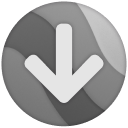
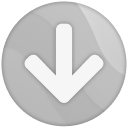
refactor: improve error handling and logging
- Remove excessive console logging\n- Improve error handling with context-aware logging\n- Update disabled icons\n- Simplify URL parsing logic\n- Add silent error handling for expected cases\n- Improve error messages for better user experience\n- Clean up service worker initialization

diff --git a/src/background.js b/src/background.js
@@ -13,17 +13,12 @@ const audiusApi = new AudiusApiService();
 
 // Wait for service worker initialization
 self.addEventListener('install', function (event) {
-    console.log('Service Worker installing...');
     event.waitUntil(self.skipWaiting());
 });
 
 self.addEventListener('activate', function (event) {
-    console.log('Service Worker activating...');
     event.waitUntil(self.clients.claim());
 });
-
-// Add a message to indicate the service worker is ready
-console.log('Service Worker initialized and ready');
 
 // Expose necessary objects to global scope
 self.JSZip = JSZip;
@@ -81,8 +76,7 @@ function extractArtistHandle(url) {
         }
 
         return null;
-    } catch (error) {
-        console.error('URL parsing error:', error);
+    } catch {
         return null;
     }
 }
@@ -91,64 +85,27 @@ function extractContentId(url) {
     try {
         const urlObj = new URL(url);
         const pathParts = urlObj.pathname.split('/').filter(Boolean);
-        console.log('Extracting content ID from path parts:', pathParts);
 
         // Validate URL structure
         if (pathParts.length < 2 || pathParts.length > 3) {
-            console.log('Invalid URL structure - expected 2 or 3 path parts');
-            return null;
-        }
-
-        // Validate artist handle (first part)
-        const artistHandle = pathParts[0];
-        if (!artistHandle || artistHandle.length < 1) {
-            console.log('Invalid artist handle');
             return null;
         }
 
         // Handle track URLs (artist/track-name)
         if (pathParts.length === 2) {
-            const trackName = pathParts[1];
-            if (!trackName || trackName.length < 1) {
-                console.log('Invalid track name');
-                return null;
-            }
-
-            // For tracks, we need to use the full permalink as the ID
-            // since the API requires the artist/track-name format
-            console.log('Found track URL pattern, returning permalink:', `${artistHandle}/${trackName}`);
-            return `${artistHandle}/${trackName}`;
+            return `${pathParts[0]}/${pathParts[1]}`;
         }
 
         // Handle album/playlist URLs (artist/album/album-id or artist/playlist/playlist-id)
         if (pathParts.length === 3) {
             const [artist, type, slug] = pathParts;
-
-            // Validate content type
-            if (type !== 'album' && type !== 'playlist') {
-                console.log('Invalid content type:', type);
-                return null;
+            if (type === 'album' || type === 'playlist') {
+                return `${artist}/${type}/${slug}`;
             }
-
-            // Validate slug
-            if (!slug || slug.length < 1) {
-                console.log('Invalid slug');
-                return null;
-            }
-
-            console.log('Found album/playlist URL pattern:', { artist, type, slug });
-
-            // For albums/playlists, we need to use the full permalink format
-            // This matches how the API expects to receive playlist/album IDs
-            const permalink = `${artist}/${type}/${slug}`;
-            console.log('Using full permalink as ID:', permalink);
-            return permalink;
         }
 
-        console.log('No matching URL pattern found');
         return null;
-    } catch (error) {
-        console.error('Error extracting content ID:', error);
+    } catch {
         return null;
     }
 }
@@ -174,8 +131,7 @@ function getContentType(url) {
         }
 
         return null;
-    } catch (error) {
-        console.error('Error determining content type:', error);
+    } catch {
         return null;
     }
 }
@@ -211,15 +167,6 @@ const SW_VERSION = '1.0.2'; // Increment this to force update
 async function updateIconState(tabId, url) {
     try {
         const isAudiusUrl = url?.includes('audius.co');
-        console.log(`Updating icon state for tab ${tabId}:`, {
-            url,
-            isAudiusUrl,
-            iconPaths: {
-                "16": isAudiusUrl ? "/icons/icon16.png" : "/icons/disabled/icon16.png",
-                "48": isAudiusUrl ? "/icons/icon48.png" : "/icons/disabled/icon48.png",
-                "128": isAudiusUrl ? "/icons/icon128.png" : "/icons/disabled/icon128.png"
-            }
-        });
 
         // Update icon with absolute paths
         await chrome.action.setIcon({
@@ -242,13 +189,14 @@ async function updateIconState(tabId, url) {
             tabId: tabId,
             popup: isAudiusUrl ? "popup.html" : ""
         });
-
-        console.log(`Successfully updated icon state for tab ${tabId}: ${isAudiusUrl ? 'enabled' : 'disabled'}`);
     } catch (error) {
-        console.error('Error updating icon state:', error);
+        // Log once with context
+        console.error('Icon state error:', {
+            tabId,
+            error: error.message
+        });
         // Try to recover by setting a default state
         try {
-            console.log('Attempting to recover icon state with disabled icons');
             await chrome.action.setIcon({
                 tabId: tabId,
                 path: {
@@ -265,7 +213,6 @@ async function updateIconState(tabId, url) {
                 tabId: tabId,
                 popup: ""
             });
-            console.log('Successfully recovered icon state');
         } catch (recoveryError) {
             console.error('Failed to recover icon state:', recoveryError);
         }
@@ -281,7 +228,6 @@ async function initializeIconStates() {
                 await updateIconState(tab.id, tab.url);
             }
         }
-        console.log('Initialized icon states for all tabs');
     } catch (error) {
         console.error('Error initializing icon states:', error);
     }

diff --git a/src/content.js b/src/content.js
@@ -8,8 +8,7 @@ function isArtistPage(url) {
         const urlObj = new URL(url);
         const pathParts = urlObj.pathname.split('/').filter(Boolean);
         return pathParts.length === 1 && !['trending', 'explore', 'feed', 'notifications'].includes(pathParts[0]);
-    } catch (error) {
-        console.error('Error in isArtistPage:', error);
+    } catch {
         return false;
     }
 }
@@ -31,8 +30,7 @@ function isContentPage(url) {
         }
 
         return false;
-    } catch (error) {
-        console.error('Error in isContentPage:', error);
+    } catch {
         return false;
     }
 }
@@ -56,8 +54,7 @@ function extractArtistHandle(url) {
         }
 
         return null;
-    } catch (error) {
-        console.error('Error in extractArtistHandle:', error);
+    } catch {
         return null;
     }
 }
@@ -69,7 +66,6 @@ function extractContentId(url) {
 
         // Validate URL structure
         if (pathParts.length < 2 || pathParts.length > 3) {
-            console.log('Invalid URL structure:', pathParts);
             return null;
         }
 
@@ -87,8 +83,7 @@ function extractContentId(url) {
         }
 
         return null;
-    } catch (error) {
-        console.error('Error in extractContentId:', error);
+    } catch {
         return null;
     }
 }
@@ -114,8 +109,7 @@ function getContentType(url) {
         }
 
         return null;
-    } catch (error) {
-        console.error('Error in getContentType:', error);
+    } catch {
         return null;
     }
 }
@@ -148,7 +142,6 @@ function getUrlInfo(url) {
             throw new Error('Invalid artist page URL');
         }
 
-        console.log('URL info parsed successfully:', urlInfo);
         return urlInfo;
     } catch (error) {
         console.error('Error in getUrlInfo:', error);
@@ -158,15 +151,11 @@ function getUrlInfo(url) {
 
 // Listen for messages from popup
 chrome.runtime.onMessage.addListener((message, sender, sendResponse) => {
-    console.log('Content script received message:', message);
-
     if (message.type === 'GET_URL_INFO') {
         try {
             const urlInfo = getUrlInfo(window.location.href);
-            console.log('Sending URL info to popup:', urlInfo);
             sendResponse({ success: true, data: urlInfo });
         } catch (error) {
-            console.error('Error processing GET_URL_INFO:', error);
             sendResponse({
                 success: false,
                 error: error.message || 'Failed to parse URL information'
@@ -189,7 +178,7 @@ new MutationObserver(async () => {
                 type: 'URL_CHANGED',
                 urlInfo
             }).catch(error => {
-                // Ignore errors when popup is not open
+                // Only log if it's not the expected "popup not open" error
                 if (!error.message.includes('receiving end does not exist')) {
                     console.error('Error sending URL change message:', error);
                 }
@@ -214,13 +203,13 @@ function initializeContentScript() {
 
     try {
         const urlInfo = getUrlInfo(window.location.href);
-        console.log('Content script initialized with URL info:', urlInfo);
 
         // Notify background script that content script is ready
         chrome.runtime.sendMessage({
             type: 'CONTENT_SCRIPT_READY',
             urlInfo
         }).catch(error => {
+            // Only log if it's not the expected "popup not open" error
             if (!error.message.includes('receiving end does not exist')) {
                 console.error('Error sending ready message:', error);
             }

diff --git a/src/popup.js b/src/popup.js
@@ -8,8 +8,9 @@ async function getCurrentTab() {
         }
         return tab;
     } catch (error) {
-        console.error('Error getting current tab:', error);
-        throw new Error('Failed to get current tab');
+        // Log once with context
+        console.error('Tab retrieval error:', error.message);
+        throw error;
     }
 }
 
@@ -21,12 +22,10 @@ async function getUrlInfo(tabId) {
             tabId: tabId
         }, response => {
             if (chrome.runtime.lastError) {
-                console.error('Error getting URL info:', chrome.runtime.lastError);
                 reject(new Error(`Failed to get page information: ${chrome.runtime.lastError.message}`));
                 return;
             }
             if (!response || !response.success) {
-                console.error('Invalid response:', response);
                 reject(new Error(response?.error || 'Failed to parse URL information'));
                 return;
             }
@@ -43,25 +42,18 @@ function getArtistFromTrackUrl(url) {
         if (pathParts.length === 2) {
             return pathParts[0]; // First part is the artist handle
         }
-    } catch (error) {
-        console.error('Error extracting artist from track URL:', error);
+    } catch {
+        // Silently fail - this is expected for non-track URLs
     }
     return null;
 }
 
 // Update status display
 function updateStatus(message, type = 'loading') {
-    try {
-        const statusEl = document.getElementById('status');
-        if (!statusEl) {
-            console.error('Status element not found');
-            return;
-        }
-        statusEl.textContent = message;
-        statusEl.className = type;
-    } catch (error) {
-        console.error('Error updating status:', error);
-    }
+    const statusEl = document.getElementById('status');
+    if (!statusEl) return; // Silently fail for UI errors
+    statusEl.textContent = message;
+    statusEl.className = type;
 }
 
 // Main download handler
@@ -77,7 +69,6 @@ async function handleDownload() {
 
         // Get URL info from content script
         const urlInfo = await getUrlInfo(tab.id);
-        console.log('URL parsing details:', urlInfo);
 
         if (!urlInfo) {
             throw new Error('Failed to parse page information');
@@ -89,7 +80,6 @@ async function handleDownload() {
         let artistId = urlInfo.artistHandle;
         if (urlInfo.isContentPage && urlInfo.contentType === 'track') {
             artistId = getArtistFromTrackUrl(tab.url);
-            console.log('Extracted artist ID from track URL:', artistId);
         }
 
         // Send download request to background script
@@ -100,7 +90,6 @@ async function handleDownload() {
             artistId: artistId
         }, (response) => {
             if (chrome.runtime.lastError) {
-                console.error('Message sending error:', chrome.runtime.lastError);
                 updateStatus('Failed to start download', 'error');
             } else if (response && response.success) {
                 updateStatus('Snagged!', 'success');
@@ -112,7 +101,6 @@ async function handleDownload() {
         });
 
     } catch (error) {
-        console.error('Download error:', error);
         updateStatus(error.message || 'Download failed', 'error');
         setTimeout(() => window.close(), 2000);
     }
